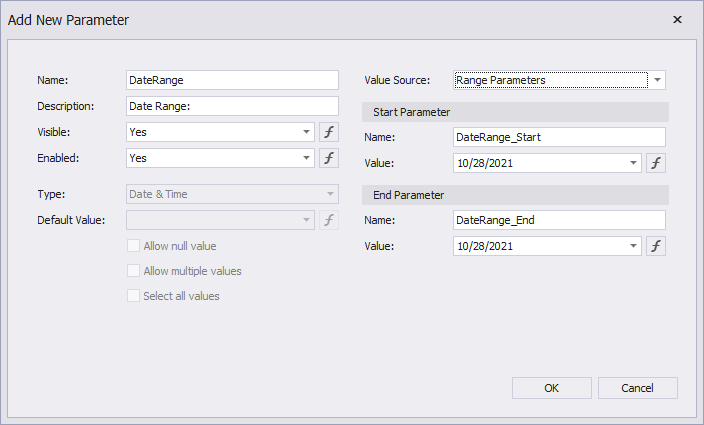
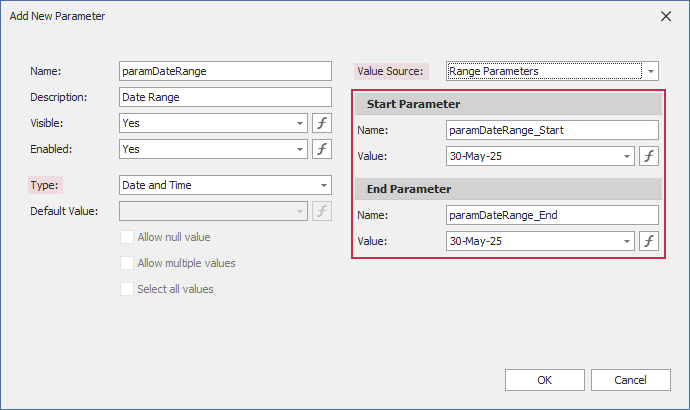
time-range parameters

diff --git a/reporting-for-desktop/articles/report-designer/report-designer-for-winforms/use-report-parameters/date-range-report-parameters.md b/reporting-for-desktop/articles/report-designer/report-designer-for-winforms/use-report-parameters/date-range-report-parameters.md
@@ -5,30 +5,53 @@ author: Sergey Andreev
 
 # Date Range Report Parameters
 
-This topic describes how to create a date range parameter and filter a report's data by the specified dates.
+This topic describes how to create **date range** and **time range** parameters and filter a report’s data by the specified date or time values.
 
-![A date range parameter's editor in Preview](../../../../images/eurd-win-date-ranges-parameters-panel.png)
+![A date range parameter's editor in Preview](~/reporting-for-desktop/images/use-date-ranges-parameters-panel.png)
 
 ## Create a Date Range Parameter in the Report Designer
 
-Follow the steps below to add a date range parameter to a report in the [Report Designer](../../report-designer-for-winforms.md):
+Follow the steps below to add a range parameter to a report in the [Report Designer](../../report-designer-for-winforms.md):
 
-1. [Create a report parameter](create-a-report-parameter.md) and set the **Value Source** option to **Range Parameters**. The **Start Parameter** and **End Parameter** sections appear, and you can configure options in these sections to create a date range.
+1. [Create a report parameter](create-a-report-parameter.md).
+2. In the *Add New Parameter* dialog, specify parameter options:
+   
+    - **Parameter type**: *Date and Time*, *Date*, or *Time*
+    - **Value Source**: *Range Parameters*
+   
+    The **Start Parameter** and **End Parameter** sections that appear allow you to configure options to create a date or time range:
 
-    ![add-parameter-dialog](../../../../images/use-date-ranges-design-add-param-dialog.png)
+    ![The "Add new parameter" dialog for a range parameter](~/reporting-for-desktop/images/use-date-ranges-design-add-param-dialog.png)
 
-2. Set the name and initial value for the **Start Parameter** and **End Parameter**. To specify an [expression](../use-expressions.md) instead of a static value, click the **Value** option's ellipsis button and use the **Expression Editor** dialog.
+3. You can change the *Name* and initial static *Value* for the **Start Parameter** and **End Parameter**. To specify an [expression](../use-expressions.md) instead of a static value, the **Value** option's ellipsis button and use the **Expression Editor** dialog:
 
-    ![value-expression](../../../../images/use-date-ranges-design-value-expression.png)
+    ![The "Add new parameter" dialog for a range parameter - Expression](~/reporting-for-desktop/images/use-date-ranges-design-value-expression.png)
 
-After you create a date range parameter, you can reference the names of the **Start Parameter** and **End Parameter** in the report's filter string to [filter the report's data](../shape-report-data/filter-data/filter-data-at-the-report-level.md) by the created date range. Select the report, click the **FilterString**'s ellipsis button in the **Properties window**, and construct a filter condition in the invoked **FilterString Editor**.
+4. [Reference the created range parameter](reference-report-parameters.md). You can reference this parameter in the report’s filter string, in expressions, and in a control's **Text** property. You can also bind control and data source parameters to report parameters.
 
-![filterstring](../../../../images/use-date-ranges-filterstring.png)
+    We recommend that you use the following functions with range parameters in expressions and filter strings:
 
-When you switch to the report's **Print Preview** tab, the [Parameters panel](parameters-panel.md) displays the date range parameter. After you submit a start and end date, the report document shows filtered data.
+    - `InDateRange(Date, FromDate, ToDate)` - equivalent to the `FromDate <= Date && Value < Date` expression.
+    - `InTimeRange(Time, FromTime, ToTime)` - equivalent to the `FromTime <= Time && Time < ToTime` expression (including cases where the range spans midnight, such as 23:00-01:00).
+    - `OutOfTimeRange(Time, FromTime, ToTime)` - equivalent to the `FromTime > Time || Time => ToTime` expression (including cases where the range spans midnight, such as 23:00-01:00).
 
-![A date range parameter's editor in Preview](../../../../images/eurd-win-date-ranges-parameters-panel.png)
+    The image below filters the report's data by the following filter string:
 
-The start and end parameter values store the selected day's midnight time. For instance, if you choose _10/15/2019_, the *DateTime* value is _10/15/2019 12:00:00 AM_. If your date fields include non-midnight times, records for the end date _10/15/2019_ are excluded from the report. To include data for the 10/15/2019 date, use the **GetDate()** function in the **FilterString Editor**.  
+    `InDateRange([ShippedDate], ?paramDateRange_Start, ?paramDateRange_End) `
 
-![Filter String - GetDate](../../../../images/eurd-win-date-ranges-filterstring-getdate.png)
+    ![Reference the created range parameter in the filter string](~/reporting-for-desktop/images/use-date-ranges-filterstring.png)
+
+
+When you switch to the report's **Print Preview** tab, the [Parameters panel](parameters-panel.md) displays the newly created range parameter. Click the editor to set a range. The editor type depends on the parameter type:
+
+**An editor for "Date" and "Date and Time" range parameters:**
+
+![A date range parameter's editor on Print Preview.](~/reporting-for-desktop/images/use-date-ranges-parameters-panel.png)
+
+**An editor for "Time" range parameters:**
+
+![A time range parameter's editor on Print Preview.](~/reporting-for-desktop/images/use-time-ranges-parameters-panel.png)
+
+After you submit start and end values, the report document shows filtered data. The report below shows the **ShippedDate** field filtered by the date range parameter:
+
+![The report data is filtered by the date range](~/reporting-for-desktop/images/use-date-ranges-parameters-filtered.png)

diff --git a/reporting-for-web/articles/report-designer/use-report-parameters/date-range-report-parameters.md b/reporting-for-web/articles/report-designer/use-report-parameters/date-range-report-parameters.md
@@ -9,6 +9,9 @@ This topic describes how to create a date range parameter and filter a report's 
 
 ![A date range parameter's editor in Preview](../../../images/eurd-web-date-ranges-parameters-panel.png)
 
+> [!Note]
+> Web Report controls do not support `Date` and `Time` range parameters. You can only create a range parameter of `Date and Time` type.
+
 ## Create a Date Range Parameter in the Report Designer
 
 Follow the steps below to add a date range parameter to a report in the [Report Designer](../first-look-at-the-report-designer.md):
